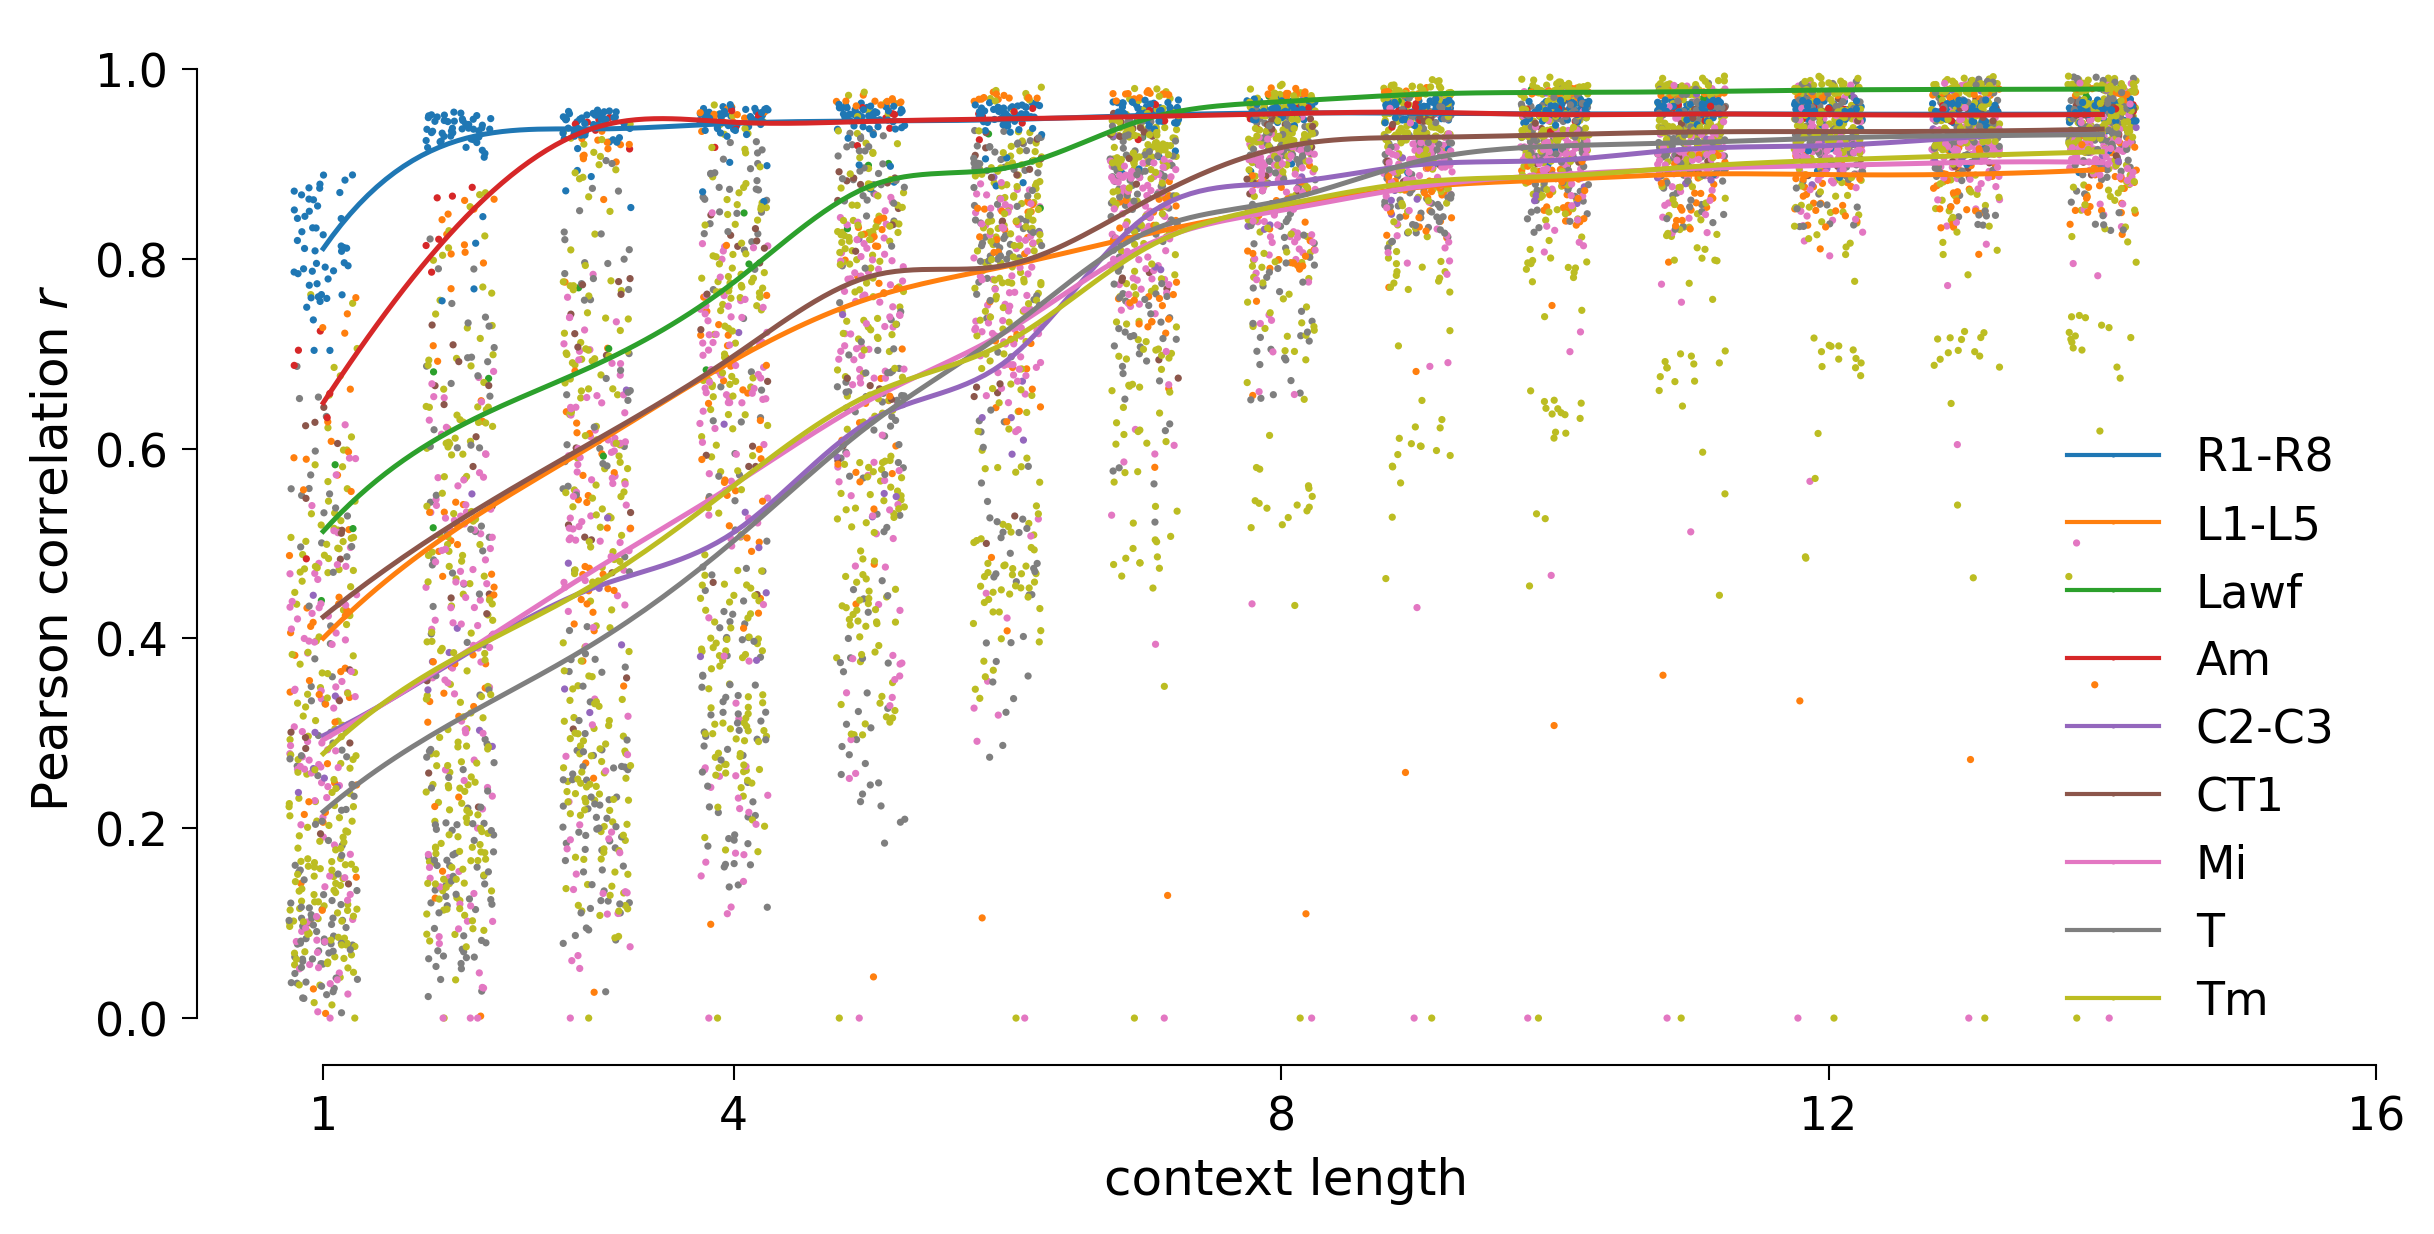
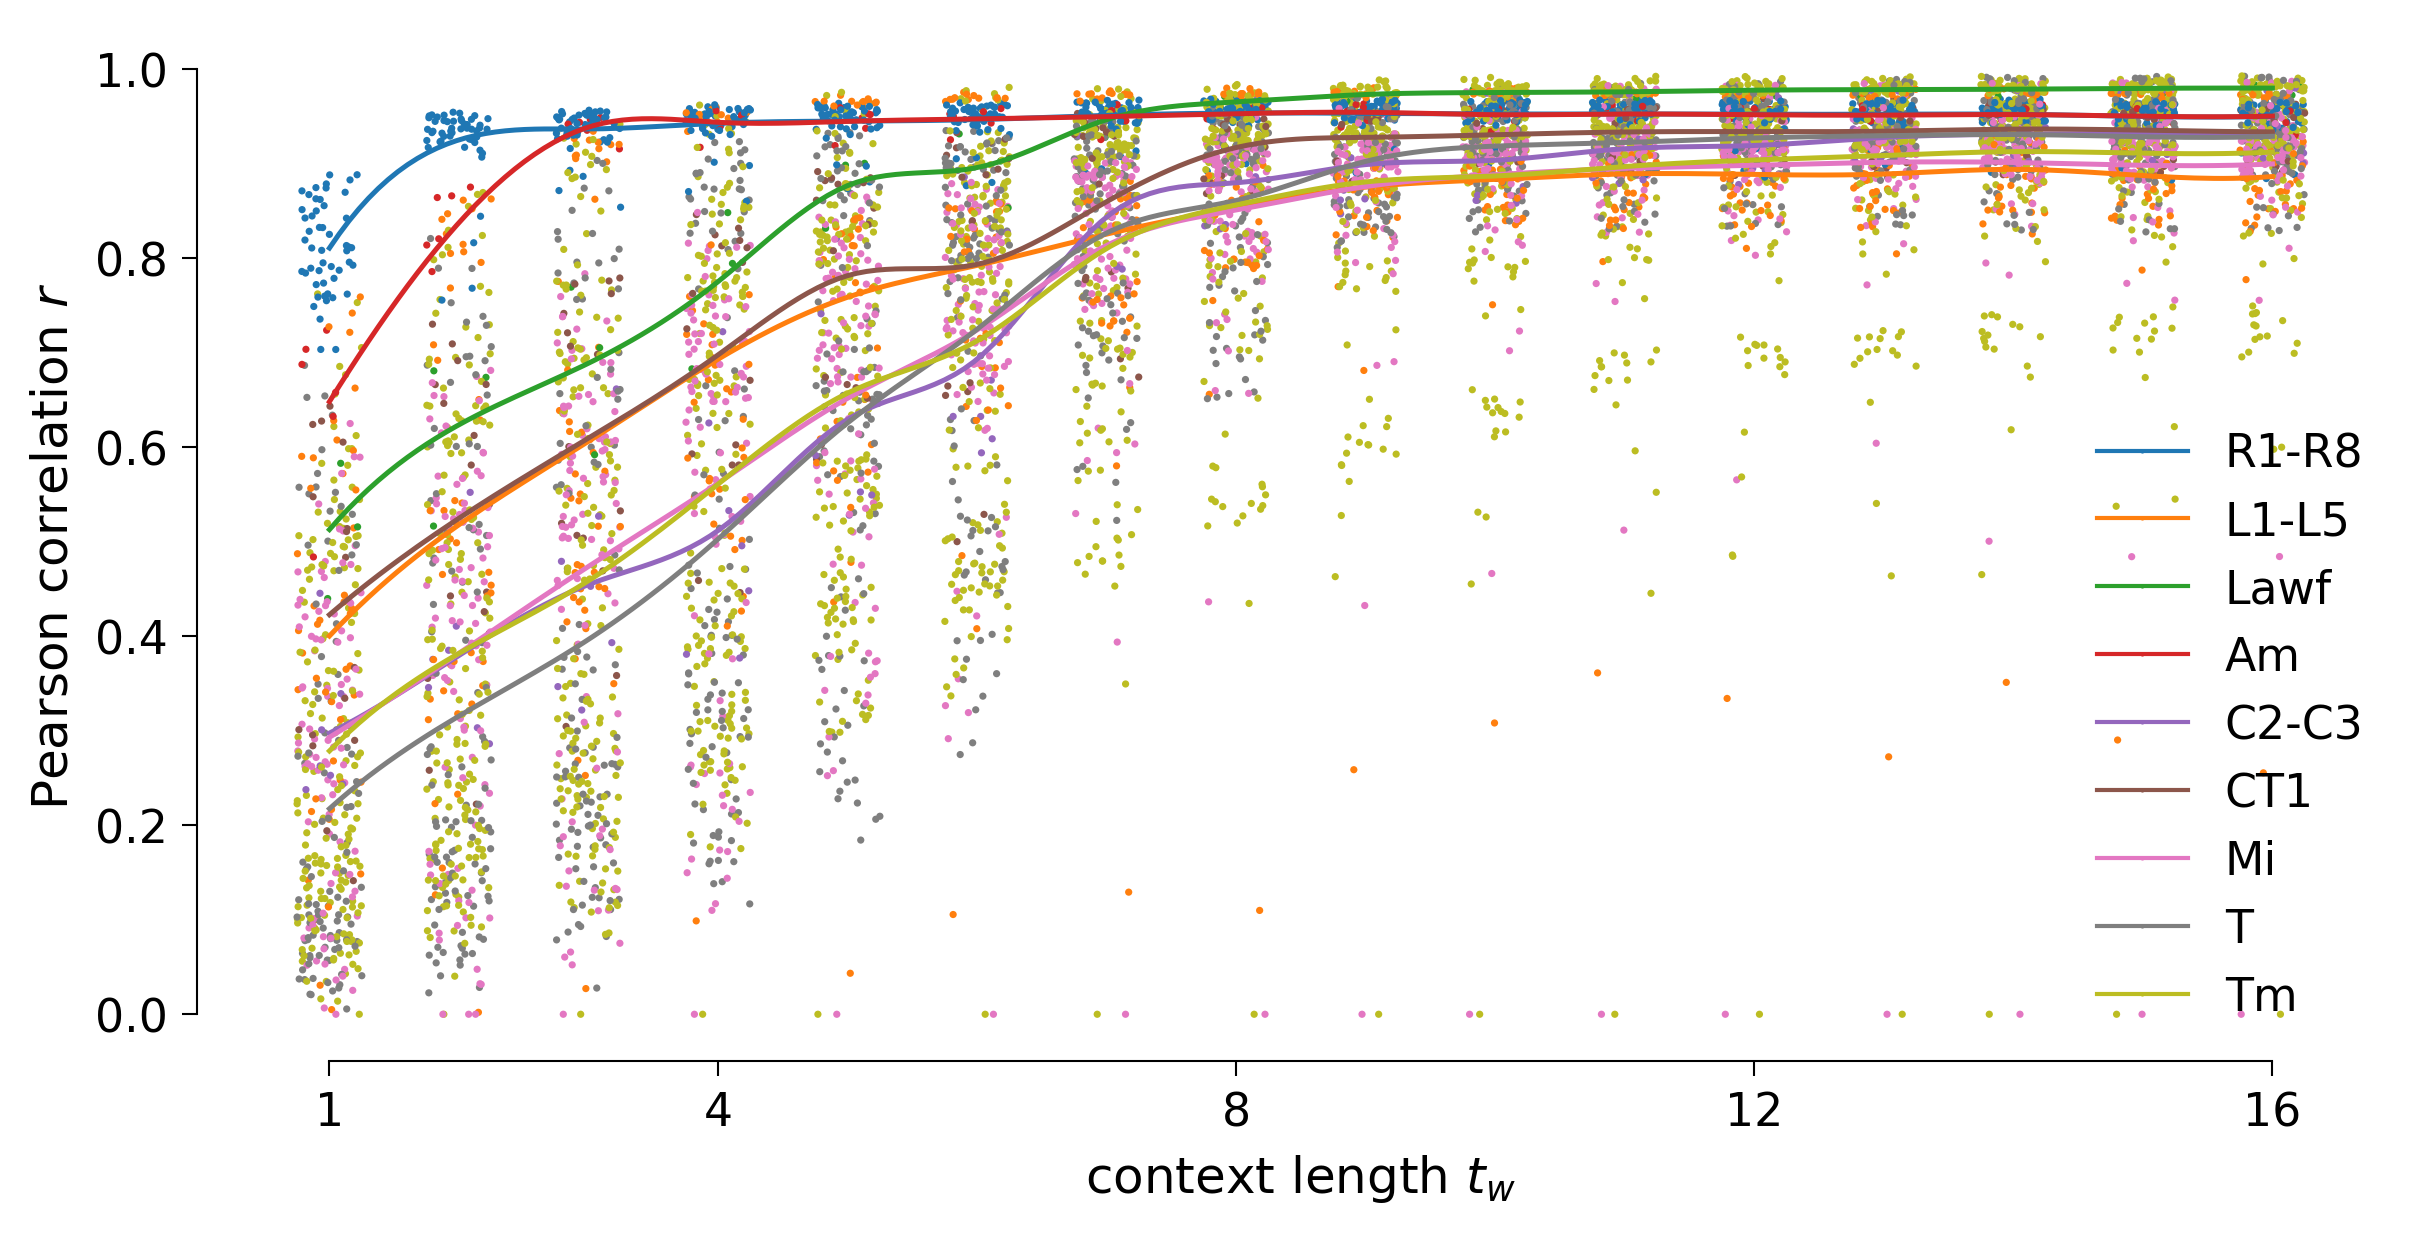
fig: updates figs

diff --git a/figures/fig_lstsq_param_recovery.py b/figures/fig_lstsq_param_recovery.py
@@ -201,6 +201,14 @@ def solve(
     vrest_score = np.full(N, np.nan, dtype=np.float64)
     W_score     = np.full(E, np.nan, dtype=np.float64)
 
+    # Per-neuron null/sloppy direction vectors in θ-space (the ORIGINAL
+    # parameter coordinates). Each entry is a (2 + d_i, k_i) float32 tensor
+    # with unit-norm columns; row 0 = τ, row 1 = V_rest, rows 2..2+d_i-1 = W
+    # components in the order of in_eidx[i]. Stored sparsely: only neurons
+    # with at least one flagged direction get an entry.
+    null_dirs:   dict = {}
+    sloppy_dirs: dict = {}
+
     # Neurons with no incoming edges are entirely unidentifiable: tau, V_rest jointly null.
     no_in = deg_in == 0
     tau_null[no_in] = True
@@ -251,10 +259,17 @@ def solve(
         vrest_score[i] = sg[1]
         W_score[in_eidx[i]] = sg[2:]
 
-        def _flag(mask_t, tau_arr, vrest_arr, W_arr):
+        def _flag(mask_t, tau_arr, vrest_arr, W_arr, dirs_dict):
             if int(mask_t.sum().item()) == 0:
                 return
-            V_null = (V[:, mask_t] / s.unsqueeze(1)).abs()
+            # Convert eigenvectors of A_s^T A_s back to θ-space (divide by
+            # column norms s) and renormalize each column to unit norm in
+            # θ-space, then store the (2+d_i, k) block for this neuron.
+            V_theta = V[:, mask_t] / s.unsqueeze(1)
+            V_theta = V_theta / V_theta.norm(dim=0, keepdim=True).clamp_min(1e-300)
+            dirs_dict[int(i)] = V_theta.float().cpu()
+
+            V_null = V_theta.abs()
             V_null = V_null / V_null.amax(dim=0, keepdim=True).clamp_min(1e-300)
             part = V_null.amax(dim=1).cpu().numpy()
             if part[0] > null_comp_tol:
@@ -265,8 +280,8 @@ def solve(
             if edge_flag.any():
                 W_arr[in_eidx[i][edge_flag]] = True
 
-        _flag(null_mask,   tau_null,   vrest_null,   W_null)
-        _flag(sloppy_mask, tau_sloppy, vrest_sloppy, W_sloppy)
+        _flag(null_mask,   tau_null,   vrest_null,   W_null,   null_dirs)
+        _flag(sloppy_mask, tau_sloppy, vrest_sloppy, W_sloppy, sloppy_dirs)
 
     if device.type == "cuda":
         torch.cuda.synchronize()
@@ -279,6 +294,7 @@ def solve(
         tau_null=tau_null,     vrest_null=vrest_null,     W_null=W_null,
         tau_sloppy=tau_sloppy, vrest_sloppy=vrest_sloppy, W_sloppy=W_sloppy,
         tau_score=tau_score,   vrest_score=vrest_score,   W_score=W_score,
+        null_dirs=null_dirs, sloppy_dirs=sloppy_dirs,
     )
 
 
@@ -496,6 +512,13 @@ def main():
         "tau_score":     torch.from_numpy(out["tau_score"]),
         "V_rest_score":  torch.from_numpy(out["vrest_score"]),
         "W_score":       torch.from_numpy(out["W_score"]),
+        # Per-neuron null/sloppy direction vectors in θ-space:
+        # dict[int -> Tensor (2 + d_i, k_i)] with unit-norm columns. Row 0 = τ,
+        # row 1 = V_rest, rows 2..2+d_i-1 = W components in the order of edges
+        # incoming to neuron i (same order as in the per-neuron design matrix).
+        # Only neurons with at least one flagged direction are present.
+        "null_dirs":   out["null_dirs"],
+        "sloppy_dirs": out["sloppy_dirs"],
     }, mask_path)
     print(f"wrote {mask_path}")
 

diff --git a/figures/fig_stimulus_ctx_pearson.py b/figures/fig_stimulus_ctx_pearson.py
@@ -46,7 +46,7 @@ except ImportError:
         return None
 
 
-CTXS = list(range(1, 15))
+CTXS = list(range(1, 17))
 CV_IDS = ['00', '01', '02', '03', '04']
 LOG_ROOT = Path('/groups/saalfeld/home/kumarv4/repos/connectome-gnn/log/fly')
 CV_ROOT = Path('/groups/saalfeld/home/kumarv4/repos/connectome-gnn/graphs_data/fly')
@@ -235,7 +235,7 @@ def plot(pearson_r, type_list, n_sample=500, seed=0):
         ax.plot(x_smooth, spline(x_smooth), color=color, linewidth=1.2)
 
     ax.set_xticks([1, 4, 8, 12, 16])
-    ax.set_xlabel('context length')
+    ax.set_xlabel('context length $t_w$')
     ax.set_ylabel('Pearson correlation $r$')
 
     handles = [